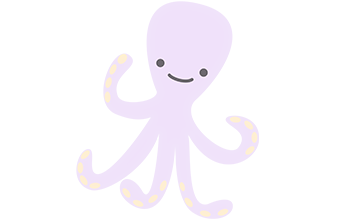
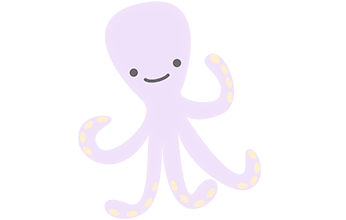
new octopus  assets

Changed region(s): [[0.2023, 0.0, 0.7514, 1.0]]

diff --git a/public/instructions/task_octopus/instructions.js b/public/instructions/task_octopus/instructions.js
@@ -11,7 +11,6 @@ export var instructions = [
     y:"40%",
     image_x: "5%",
     image_y: "0",
-    image_width: "1366px",
     textAlign: "left",
     imgfadeOut: "1"
   },
@@ -25,15 +24,14 @@ export var instructions = [
       duration: "3"
     },
     text: {
-      en: "See these spots? <br> Ollie will follow this path looking for fish in each spot.",
+      en: "See these spots? <br> Ollie will follow this path <br>looking for fish in each spot.",
       de:"Siehst du diese Punkte? <br>Maxi folgt diesem Pfad und sucht an jedem Punkt nach Karotten."
     },
     textDelay: "2",
     x:"50%",
     y:"82%",
-    image_x: "-200px",
-    image_y: "6%",
-    image_width: "230px",
+    image_x: "-250px",
+    image_y: "8.7%",
     textAlign: "center",
     imgfadeOut: "1"
   },
@@ -89,8 +87,8 @@ export var instructions = [
     y:"82%",
     textAlign: "center",
     image_x: "39%",
-    image_y: "-1000px",
-    image_width: "600px",
+    image_y: "-645px",
+    image_width: "700px",
     imgfadeOut: "1"
   },
   {
@@ -109,7 +107,7 @@ export var instructions = [
     textDelay: "1",
     x:"10%",
     y:"82%",
-    textAlign: "left",
+    textAlign: "center",
     image_x: "62%",
     image_y: "1994px",
     image_width: "1000px",

diff --git a/public/javascripts/task_octopus.js b/public/javascripts/task_octopus.js
@@ -286,8 +286,8 @@ let demoMsgs = {
   "en": [
   "Let me show you how it's done.",
   "You see, there are two buttons below.",
-  "Do you see where Maxi is standing?",
-  "If you think there's a carrot under that spot,",
+  "Do you see where Ollie is standing?",
+  "If you think there's fish under that spot,",
   "If you think there's nothing under that spot,",
   "Now it's your turn!"
   ],
